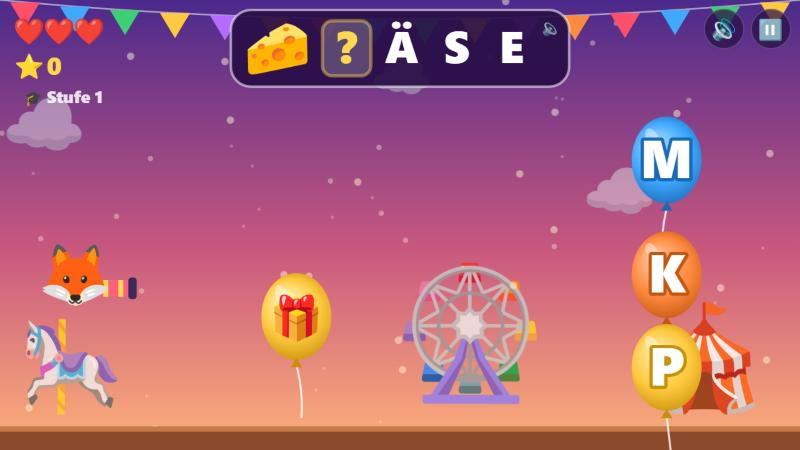
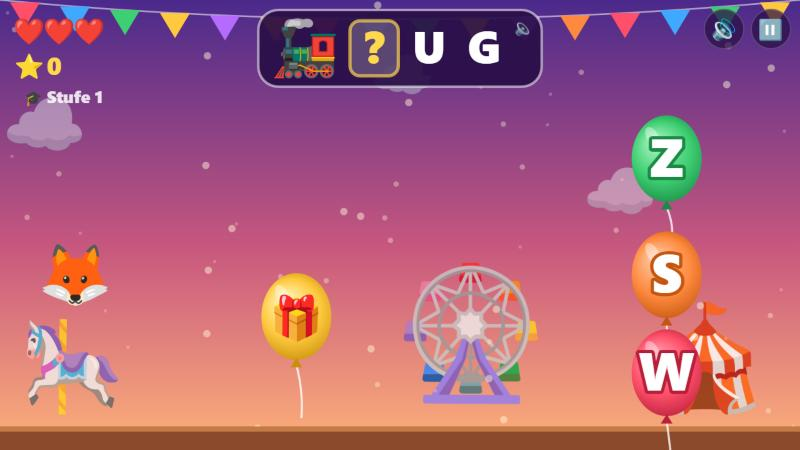
Konfettikanone entfernt, Schuss kommt direkt aus dem Tier

diff --git a/game.js b/game.js
@@ -6,7 +6,7 @@ const W = 960, H = 540;                  // logische Spielfläche, wird auf die 
 const LANES = [180, 320, 450];           // Flugbahnen der drei Ballons
 const HERO_X = 90, HERO_MIN = 140, HERO_MAX = 470;
 const HERO_SPEED = 420, BULLET_SPEED = 950, FIRE_COOLDOWN = 0.28;
-const MUZZLE_DX = 66;                    // Mündung der Konfettikanone
+const MUZZLE_DX = 48;                    // Konfetti kommt vorn aus dem Tier
 const BALLOON_RX = 42, BALLOON_RY = 52;
 const STOP_X = 800, ENTER_EASE = 4, HOLD_TIME = 2.2; // Ballons schweben ein und warten, bis das Kind gelesen hat
 const START_HEARTS = 3, MAX_HEARTS = 5, BONUS_EVERY = 10;
@@ -324,7 +324,7 @@ function setPhase(phase, t) { G.phase = phase; G.phaseT = t; }
 
 function shoot() {
   G.hero.cool = FIRE_COOLDOWN;
-  G.bullets.push({ x: HERO_X + MUZZLE_DX, y: G.hero.y + 14, color: pick(CONFETTI) });
+  G.bullets.push({ x: HERO_X + MUZZLE_DX, y: G.hero.y, color: pick(CONFETTI) });
   Sound.play('laser');
 }
 
@@ -543,7 +543,7 @@ function update(dt) {
     if (G.aim && (G.aim.state !== 'fly' || G.phase !== 'fly')) G.aim = null;
     if (dir) { h.targetY = null; G.aim = null; h.y += dir * HERO_SPEED * dt; }
     else {
-      if (G.aim) h.targetY = G.aim.y - 14;   // angetippten Ballon verfolgen (Kanone sitzt etwas tiefer)
+      if (G.aim) h.targetY = G.aim.y;   // angetippten Ballon verfolgen
       if (h.targetY !== null) {
         const d = h.targetY - h.y, step = HERO_SPEED * 1.8 * dt;
         h.y += Math.abs(d) <= step ? d : Math.sign(d) * step;
@@ -551,8 +551,8 @@ function update(dt) {
     }
     h.y = clamp(h.y, HERO_MIN, HERO_MAX);
     h.cool -= dt;
-    // Zielen per Antippen: schießen, sobald die Kanone auf der Höhe des Ballons ist
-    if (G.aim && Math.abs(h.y + 14 - G.aim.y) < 16 && h.cool <= 0) { G.aim = null; shoot(); }
+    // Zielen per Antippen: schießen, sobald das Tier auf der Höhe des Ballons ist
+    if (G.aim && Math.abs(h.y - G.aim.y) < 16 && h.cool <= 0) { G.aim = null; shoot(); }
     // kurzes Antippen wird gemerkt, auch wenn es zwischen zwei Frames endet
     if ((input.fireQueued || input.keyFire || input.touchFire) && h.cool <= 0) { input.fireQueued = false; shoot(); }
   }
@@ -778,17 +778,6 @@ function drawHero() {
   const h = G.hero;
   const y = G.state === 'title' ? 320 + Math.sin(G.time * 2) * 10 : h.y;
   if (h.blink > 0 && Math.floor(h.blink * 12) % 2 === 0) return;
-  // Konfettikanone
-  const kx = HERO_X + 22, ky = y + 6;
-  ctx.fillStyle = '#ff5f7e';
-  roundRect(kx, ky, 46, 20, 6);
-  ctx.fill();
-  ctx.fillStyle = '#ffd84f';
-  ctx.fillRect(kx + 12, ky, 6, 20);
-  ctx.fillRect(kx + 30, ky, 6, 20);
-  ctx.fillStyle = '#3a2a5c';
-  roundRect(kx + 42, ky - 3, 10, 26, 4);
-  ctx.fill();
   // Seitenansicht-Emojis (🦄) schauen nach links und werden gespiegelt, damit sie auf die Ballons blicken
   ctx.save();
   ctx.translate(HERO_X, y);
@@ -1127,7 +1116,7 @@ window.addEventListener('keyup', e => {
   if (KEYS_FIRE.includes(e.code)) input.keyFire = false;
 });
 
-// Ballon antippen/anklicken = Kanone zielt und schießt automatisch.
+// Ballon antippen/anklicken = Tier zielt und schießt automatisch.
 // Sonst Maus: Klicken/Ziehen steuert. Touch: linke Hälfte ziehen = fliegen, rechte Hälfte halten = schießen
 const firePointers = new Set();
 function pointerY(e) {
@@ -1157,7 +1146,7 @@ canvas.addEventListener('pointerdown', e => {
   const target = G.hero.dead ? null : goldAt(pointerX(e), pointerY(e)) || balloonAt(pointerX(e), pointerY(e));
   if (target) {
     G.aim = target;
-    G.hero.targetY = target.y - 14;
+    G.hero.targetY = target.y;
     return;
   }
   canvas.setPointerCapture(e.pointerId);

diff --git a/index.html b/index.html
@@ -12,7 +12,7 @@
   <link rel="manifest" href="manifest.json">
   <link rel="icon" type="image/png" sizes="192x192" href="icons/icon-192.png">
   <link rel="apple-touch-icon" href="icons/apple-touch-icon.png">
-  <link rel="stylesheet" href="style.css?v=20261002103240">
+  <link rel="stylesheet" href="style.css?v=20261002103557">
 </head>
 <body>
   <div id="stage">
@@ -110,8 +110,8 @@
 
   <div id="rotate">📱🔄<br>Bitte das Gerät quer halten</div>
 
-  <script src="words.js?v=20261002103240"></script>
-  <script src="audio.js?v=20261002103240"></script>
-  <script src="game.js?v=20261002103240"></script>
+  <script src="words.js?v=20261002103557"></script>
+  <script src="audio.js?v=20261002103557"></script>
+  <script src="game.js?v=20261002103557"></script>
 </body>
 </html>

diff --git a/README.md b/README.md
@@ -10,10 +10,10 @@
 
 **Buchstaben-Lernspiel auf dem Jahrmarkt** – für Kinder in Klasse 1–2.
 
-Oben steht ein Emoji mit seinem Namen, aber ein Buchstabe fehlt (🧀 `? Ä S E`). Drei Luftballons mit Buchstaben schweben heran. Schieß den Ballon mit dem richtigen Buchstaben ab!
+Oben steht ein Emoji mit seinem Namen, aber ein Buchstabe fehlt (🚂 `? U G`). Drei Luftballons mit Buchstaben schweben heran. Schieß den Ballon mit dem richtigen Buchstaben ab!
 
 <p align="center">
-  <img src="docs/gameplay.jpg" alt="Spielszene: Fuchs mit Konfettikanone, Wort ?ÄSE, drei Buchstaben-Ballons und ein goldener Geschenk-Ballon" width="100%">
+  <img src="docs/gameplay.jpg" alt="Spielszene: Fuchs, Wort ?UG, drei Buchstaben-Ballons und ein goldener Geschenk-Ballon" width="100%">
 </p>
 
 ## Spielen
